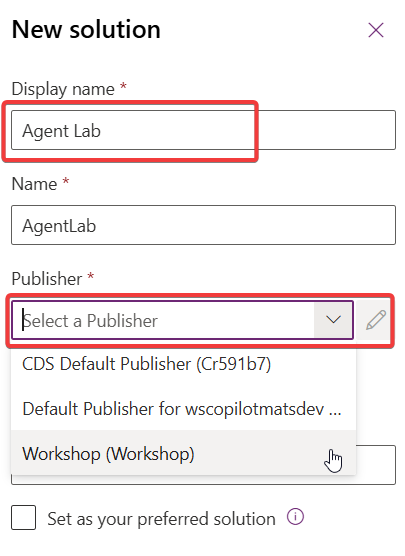
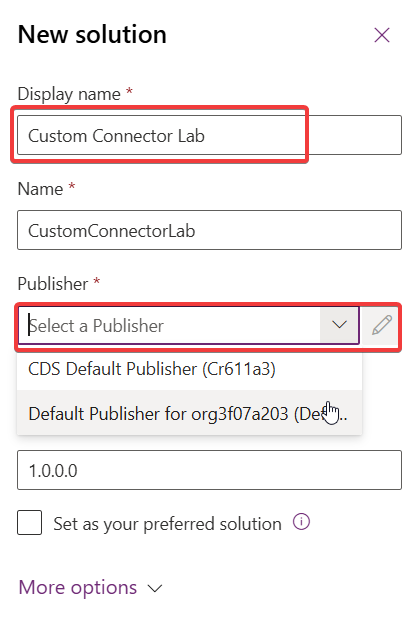
lab00 - fixed screenshot

diff --git a/docs/lab-01/index.md b/docs/lab-01/index.md
@@ -24,7 +24,7 @@ First step is given your Custom Connector a meaningful name, make sure to use a 
 
 Next you need to select **HTTPS** and fill in the **Host** and **Base URL**. The community event API can be reached via dhino (Middleware used to publish Dataverse data) under the following url. Do not fill the "https://" part in the host and you can only put the root URL until the first "/" there. The "Base URL" is the part of the URL which is common to all requests being done via this custom connector.
 
-**<https://apim-dhino-fetch-prod-002.azure-api.net/002 >** **TODO**
+**<https://fa-eventapi-us.azurewebsites.net/api >** **TODO**
 
 !["Adding Host and Base URL"](./assets/0100_02_hosturl.png) **TODO**
 

diff --git a/docs/lab-00/index.md b/docs/lab-00/index.md
@@ -77,7 +77,7 @@ Because of that our first step in the Power Apps Maker portal is to navigate to 
 
 !["Create new solution"](./assets/0010-0_createsolution.png)
 
-In the dialog which open give your solution a meaningful name and select either create an own publisher by clicking **New** or use the **Default Publisher** named after your environment.
+In the dialog which open give your solution a meaningful name and select either create an own publisher by clicking **New** or use the **Default Publisher** named after your environment (will be named differently than the one in this screenshot).
 
 !["Create Solution Dialog"](./assets/0010-1_solutionwizard.png)
 
